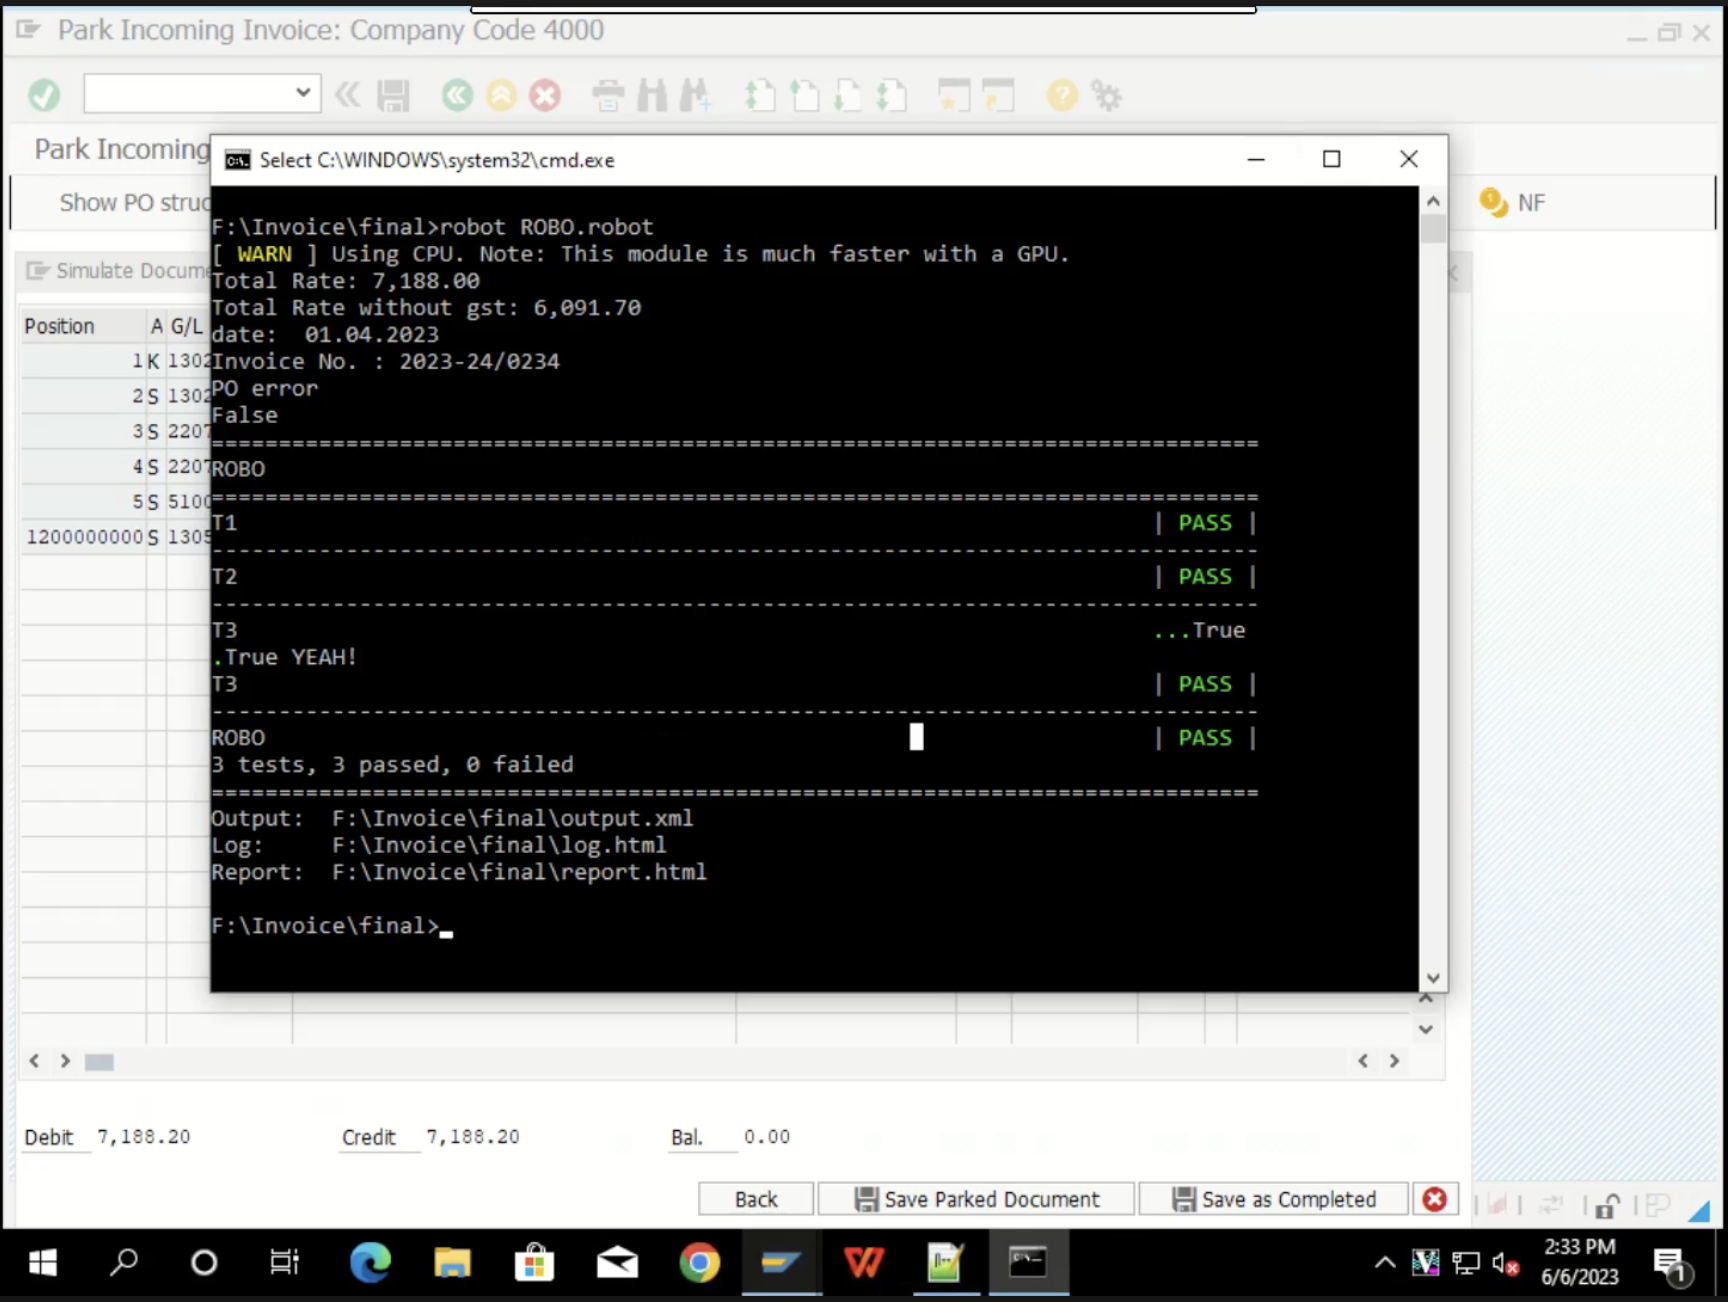
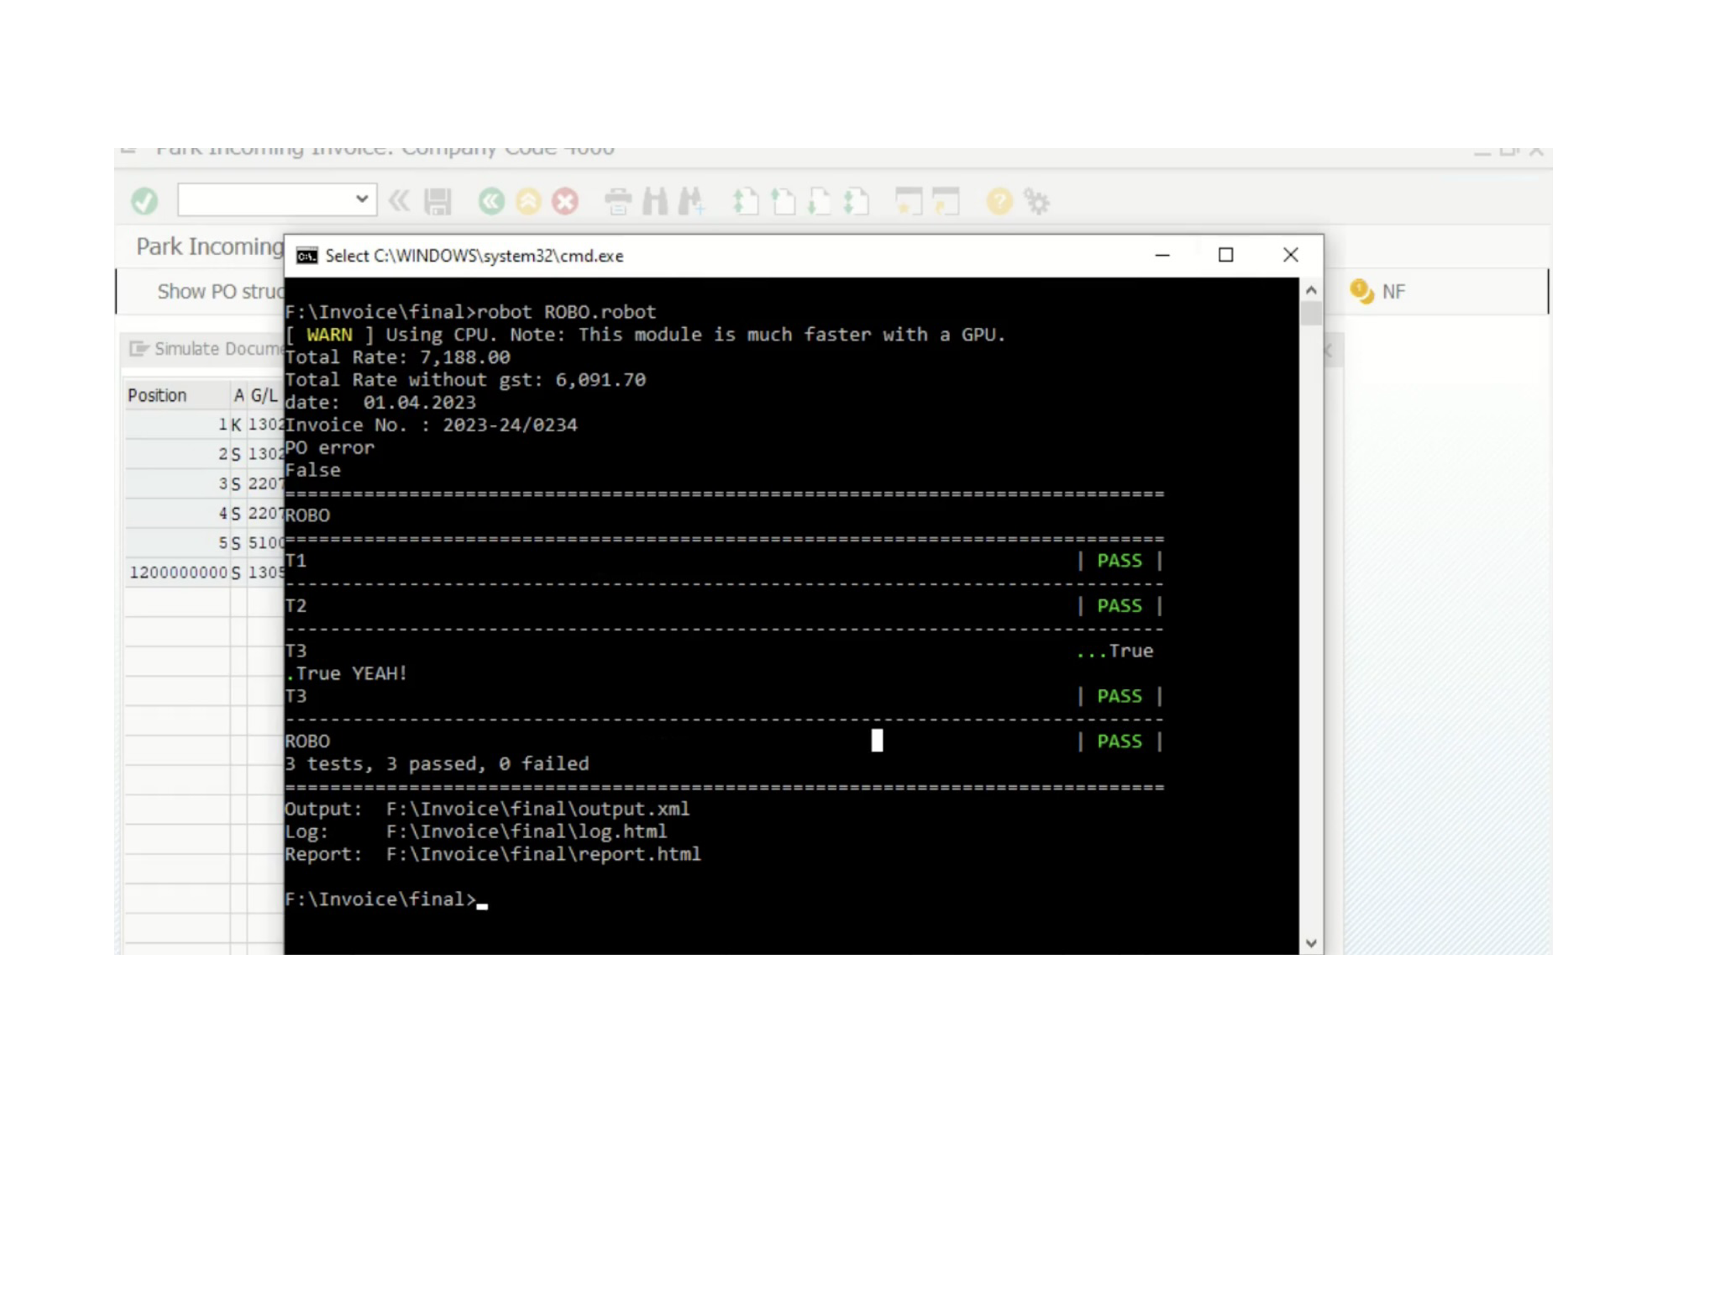
Portfolio updation

diff --git a/index.html b/index.html
@@ -114,7 +114,7 @@
                             </div>
                             <div class="frontSkill">
                                 <img src="img/icons/react native_react_icon.png" alt="">
-                                ReactJs
+                                React.js
                             </div>
                             <div class="frontSkill">
                                 <img src="img/icons/bootstrap_icon.png" alt="">
@@ -127,11 +127,11 @@
                         <div class="box">
                             <div class="backSkill">
                                 <img src="img/icons/node_icon.png" alt="">
-                                NodeJs
+                                Node.js
                             </div>
                             <div class="backSkill">
                                 <img src="img/icons/expressjs_logo_icon_169185.png" alt="">
-                                ExpressJs
+                                Express.js
                             </div>
                             <div class="backSkill">
                                 <img src="img/icons/mongodb_icon.png" alt="">
@@ -139,7 +139,7 @@
                             </div>
                             <div class="backSkill">
                                 <img src="img/icons/mysql_icon.png" alt="">
-                                SQL
+                                MYSQL
                             </div>
                             <div class="backSkill">
                                 <img src="img/icons/python_icon.png" alt="">
@@ -147,45 +147,8 @@
                             </div>
                         </div>
                     </div>
-                    <!-- <div class="datasci">
-                        <h2>Data Science</h2>
-                        <div class="box">
-                            <div class="datasciSkill">
-                                <img src="/img/icons/machine.png" alt="">
-                                Machine Learning
-                            </div>
-                            <div class="datasciSkill">
-                                <img src="/img/icons/deep.png" alt="">
-                                Deep Learning
-                            </div>
-                            <div class="datasciSkill">
-                                <img src="/img/icons/numpy.png" alt="">
-                                NumPy
-                            </div>
-                            <div class="datasciSkill">
-                                <img src="/img/icons/pandas.png" alt="">
-                                Pandas
-                            </div>
-                            <div class="datasciSkill">
-                                <img src="/img/icons/matplot.png" alt="">
-                                Matplotlib
-                            </div>
-                            <div class="datasciSkill">
-                                <img src="/img/icons/seaborn.png" alt="">
-                                Seaborn
-                            </div>
-                            <div class="datasciSkill">
-                                <img src="/img/icons/scikit.png" alt="">
-                                Scikit-Learn
-                            </div>
-                            <div class="datasciSkill">
-                                <img src="/img/icons/tensor.png" alt="">
-                                TensorFlow
-                            </div>
-                        </div>
-                    </div> -->
                     <div class="tools">
-                        <h2>Tools</h2>
+                        <h2>Tools & Services</h2>
                         <div class="box">
                             <div class="toolsSkill">
                                 <img src="img/icons/git_icon.png" alt="">
@@ -196,9 +159,13 @@
                                 Github
                             </div>
                             <div class="toolsSkill">
-                                <img src="img/icons/vscode_fill_icon.png" alt="">
-                                VsCode
-                            </div>
+                              <img src="img/icons/vscode_fill_icon.png" alt="">
+                              VS Code
+                              </div>
+                                <div class="toolsSkill">
+                                    <img src="img/icons/docker.png" alt="">
+                                    Docker
+                                </div>
                             <div class="toolsSkill">
                                 <img src="img/icons/jupiter-notebook.png" alt="">
                                 Jupyter Notebook
@@ -208,15 +175,28 @@
                                 Postman
                             </div>
                             <div class="toolsSkill">
-                                <img src="img/icons/figma_icon.png" alt="">
-                                Figma
-                            </div>
-                            <div class="toolsSkill">
                                 <img src="img/icons/canva-icon-512x512-q41pwse8.png" alt="">
                                 Canva
                             </div>
                         </div>
                     </div>
+                    <!-- <div class="datasci">
+                      <h2>Cloud Services & OS</h2>
+                      <div class="box">
+                          <div class="datasciSkill">
+                              <img src="/img/icons/linux-platform.png" alt="">
+                              Linux  
+                          </div>
+                          <div class="datasciSkill">
+                              <img src="/img/icons/linux-platform.png" alt="">
+                              Linux  
+                          </div>
+                          <div class="datasciSkill">
+                              <img src="/img/icons/azure.png" alt="">
+                              Microsoft Azure 
+                          </div>
+                      </div>
+                  </div> -->
                 </div>
             </div>
         </section>
@@ -308,9 +288,9 @@
                   <ul class="portfolio_filter">
                     <li><a href="" class="active" data-filter="*">All</a></li>
                     <li>
-                      <a href="" data-filter=".photography">Web Development</a>
+                      <a href="" data-filter=".web-Dev">Web Development</a>
                     </li>
-                    <li><a href="" data-filter=".logo">ML & DL</a></li>
+                    <li><a href="" data-filter=".Ml">ML & DL</a></li>
                     <!-- <li><a href="" data-filter=".graphics">Graphics</a></li> -->
                     <!-- <li><a href="" data-filter=".ads">Advertising</a></li> -->
                     <!-- <li><a href="" data-filter=".fashion">Fashion</a></li> -->
@@ -325,8 +305,51 @@
                 data-aos="fade-up"
               >
                 <!-- single work -->
-                <div class="col-md-4 col-sm-6 fashion logo">
-                  <a id="demo01" href="https://tbvision.netlify.app/" 
+                <div class="col-md-4 col-sm-6 web-Dev">
+                  <a id="demo01" href="https://kdgehlot2003.github.io/Code-Blog/" 
+                  target="_blank"
+                  class="portfolio_item">
+                    <img
+                      src="img/portfolio/codeblog.jpeg"
+                      alt="image"
+                      class="img-responsive"
+                    />
+                    <div class="portfolio_item_hover">
+                      <div class="portfolio-border clearfix">
+                        <div class="item_info">
+                          <span>Code Blog</span>
+                          <em>HTML | CSS | JavaScript | React.js</em>
+                        </div>
+                      </div>
+                    </div>
+                  </a>
+                </div>
+                <!-- end single work -->
+
+                <!-- single work -->
+                <div class="col-md-4 col-sm-6 ads web-Dev Ml">
+                  <a id="demo02" href="https://visinory.netlify.app/" 
+                  target="_blank"
+                  class="portfolio_item">
+                    <img
+                      src="img/portfolio/visinory.jpeg"
+                      alt="image"
+                      class="img-responsive"
+                    />
+                    <div class="portfolio_item_hover">
+                      <div class="portfolio-border clearfix">
+                        <div class="item_info">
+                          <span>Visinory</span> <em>Python | TensorFlow | Fast-API | React.js | Bootstrap</em>
+                        </div>
+                      </div>
+                    </div>
+                  </a>
+                </div>
+                <!-- end single work -->
+
+                <!-- single work -->
+                <div class="col-md-4 col-sm-6 web-Dev Ml">
+                  <a id="demo03" href="https://tbvision.netlify.app/" 
                   target="_blank"
                   class="portfolio_item">
                     <img
@@ -346,20 +369,22 @@
                 </div>
                 <!-- end single work -->
 
+
+
                 <!-- single work -->
-                <div class="col-md-4 col-sm-6 ads graphics">
-                  <a id="demo02" href="https://visinory.netlify.app/" 
+                <div class="col-md-4 col-sm-6 ads">
+                  <a id="demo05" href="https://github.com/KDGehlot2003/ChatBot" 
                   target="_blank"
                   class="portfolio_item">
                     <img
-                      src="img/portfolio/visinory.png"
+                      src="img/portfolio/chatbot.jpeg"
                       alt="image"
                       class="img-responsive"
                     />
                     <div class="portfolio_item_hover">
                       <div class="portfolio-border clearfix">
                         <div class="item_info">
-                          <span>Visinory</span> <em>Python | TensorFlow | Fast-API | React.js | Bootstrap</em>
+                          <span>ChatBot For Leave</span> <em>Python | MYSQL | RASA | Flask | HTML | CSS | JavaScript</em>
                         </div>
                       </div>
                     </div>
@@ -368,38 +393,13 @@
                 <!-- end single work -->
 
 
-
                 <!-- single work -->
-                <div class="col-md-4 col-sm-6 photography">
-                  <a id="demo03" href="https://kdgehlot2003.github.io/Code-Blog/" 
-                  target="_blank"
-                  class="portfolio_item">
-                    <img
-                      src="img/portfolio/codeblog.png"
-                      alt="image"
-                      class="img-responsive"
-                    />
-                    <div class="portfolio_item_hover">
-                      <div class="portfolio-border clearfix">
-                        <div class="item_info">
-                          <span>Code Blog</span>
-                          <em>HTML | CSS | JavaScript | React.js</em>
-                        </div>
-                      </div>
-                    </div>
-                  </a>
-                </div>
-                <!-- end single work -->
-
-
-
-                <!-- single work -->
-                <div class="col-md-4 col-sm-6 fashion ads">
+                <div class="col-md-4 col-sm-6 ads">
                   <a id="demo04" href="https://drive.google.com/file/d/1xZsTfyW5NOGb2O09GdGA7Xwvo0nV3rbu/view?usp=drive_link" 
                   target="_blank"
                   class="portfolio_item">
                     <img
-                      src="img/portfolio/Invoic_praking_sap.png"
+                      src="img/portfolio/Invoic_praking_sap.jpeg"
                       alt="image"
                       class="img-responsive"
                     /> 
@@ -415,26 +415,6 @@
                 </div>
                 <!-- end single work -->
 
-                <!-- single work -->
-                <div class="col-md-4 col-sm-6 graphics ads">
-                  <a id="demo05" href="https://github.com/KDGehlot2003/ChatBot" 
-                  target="_blank"
-                  class="portfolio_item">
-                    <img
-                      src="img/portfolio/chatbot.png"
-                      alt="image"
-                      class="img-responsive"
-                    />
-                    <div class="portfolio_item_hover">
-                      <div class="portfolio-border clearfix">
-                        <div class="item_info">
-                          <span>ChatBot For Leave</span> <em>Python | MYSQL | RASA | Flask | HTML | CSS | JavaScript</em>
-                        </div>
-                      </div>
-                    </div>
-                  </a>
-                </div>
-                <!-- end single work -->
 
 
 
